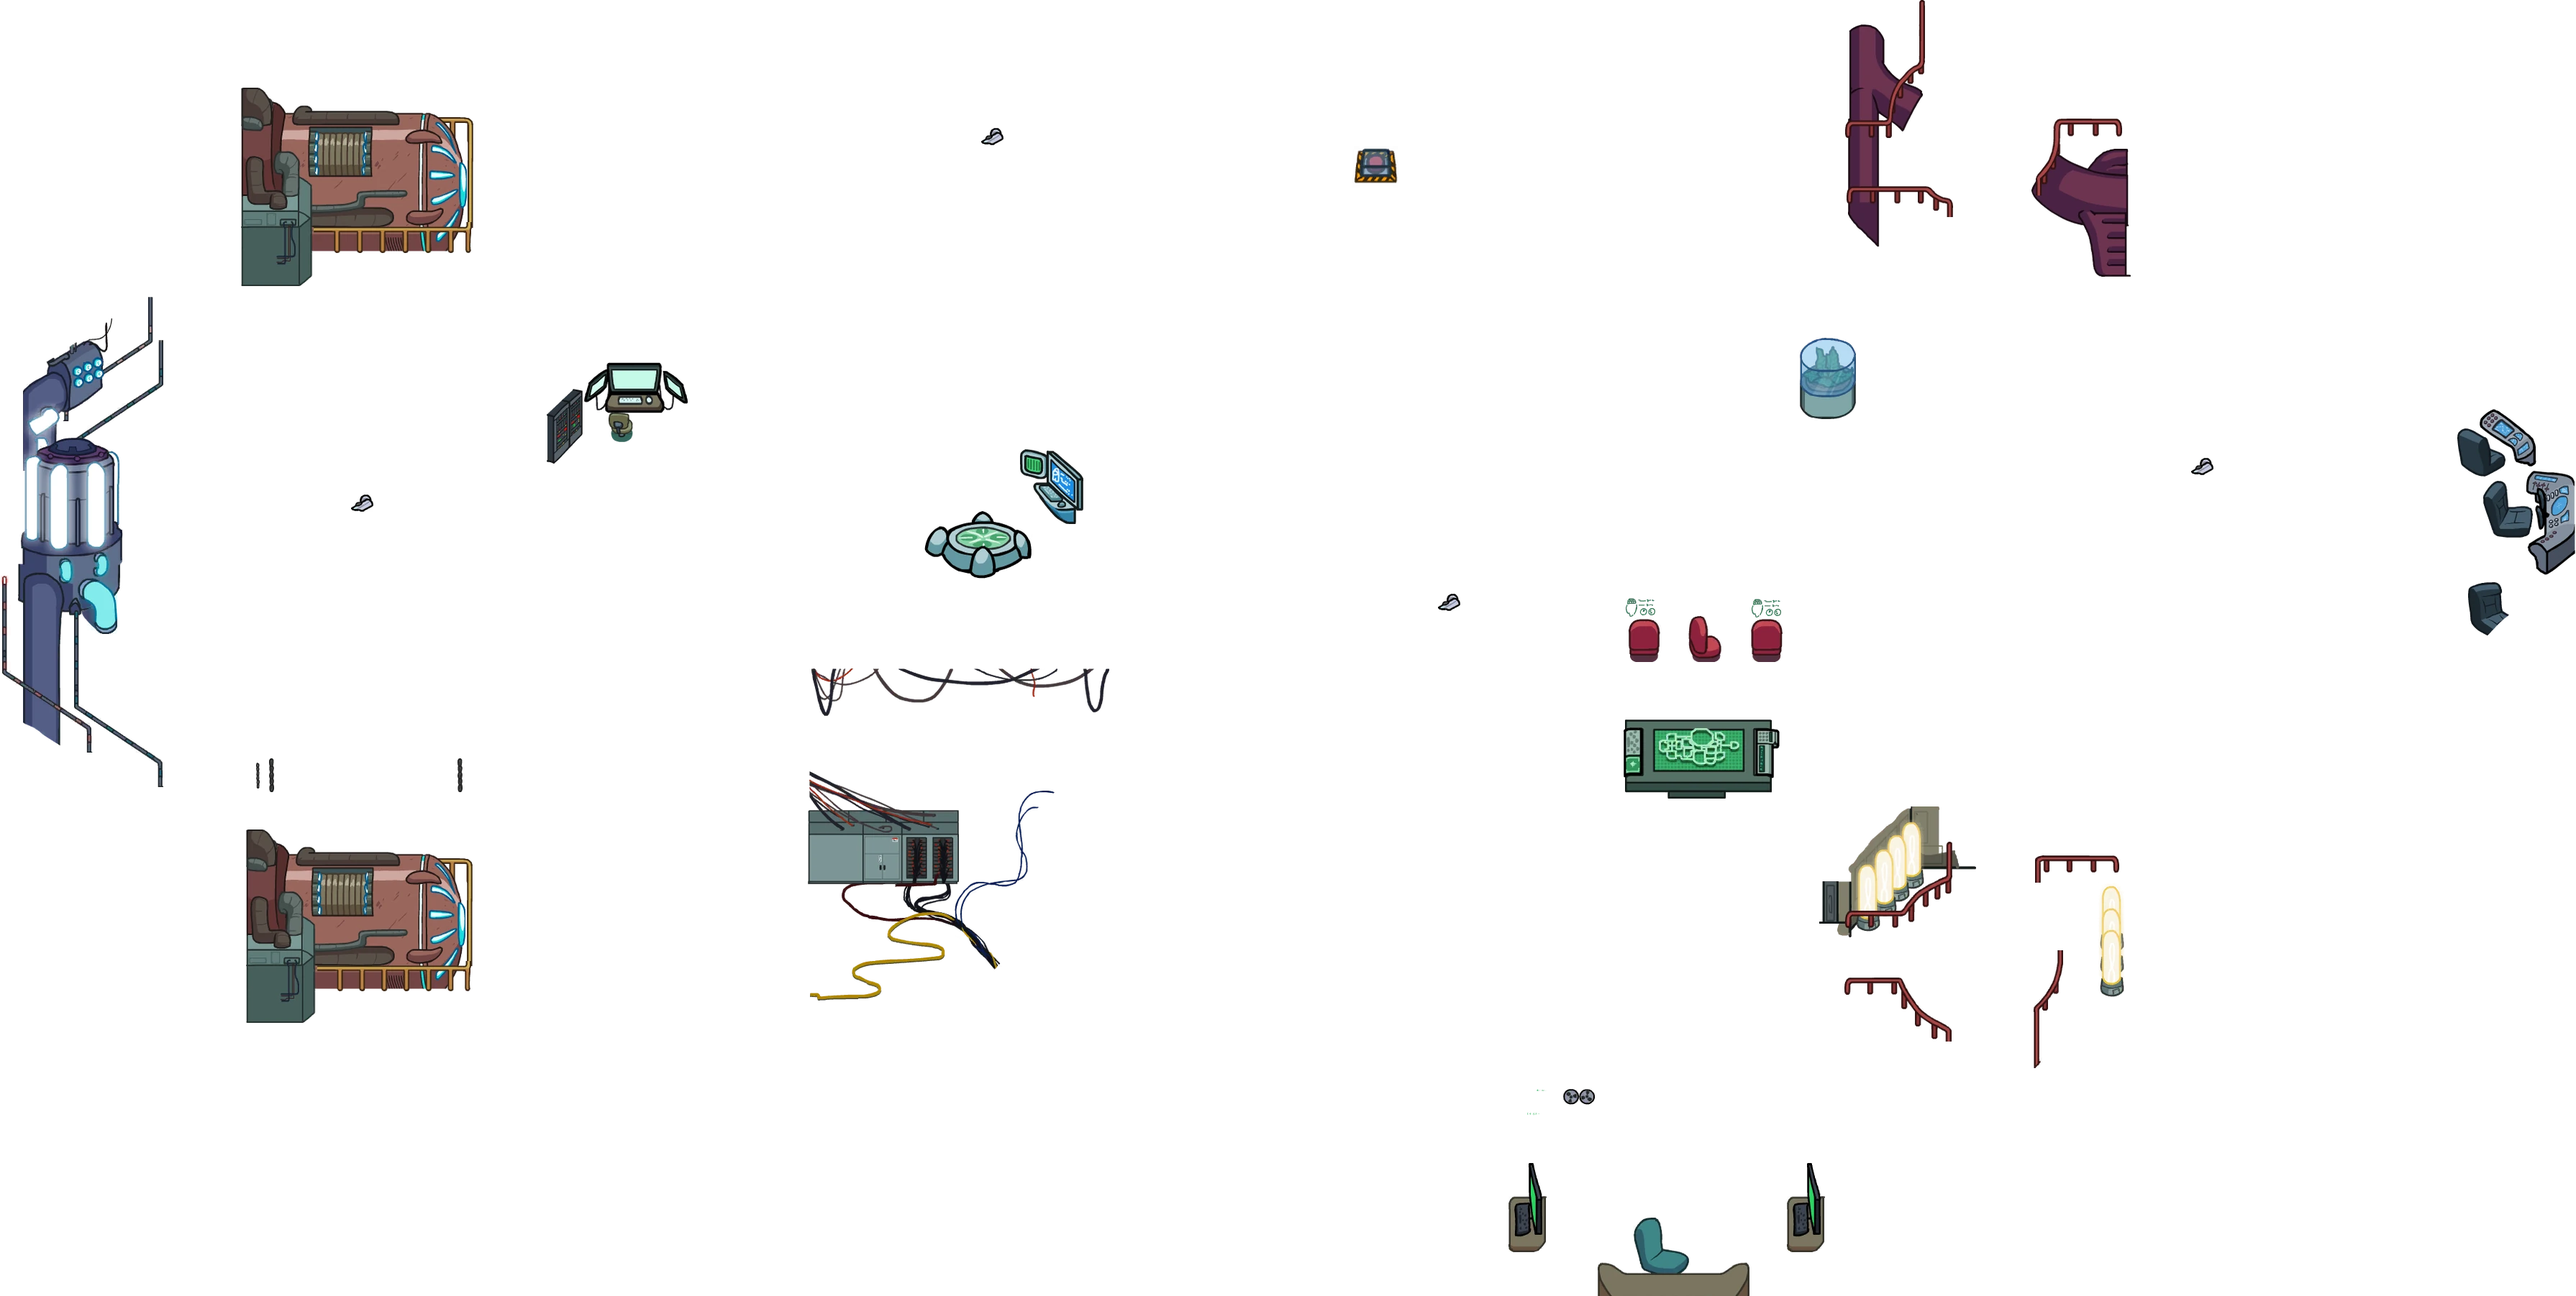
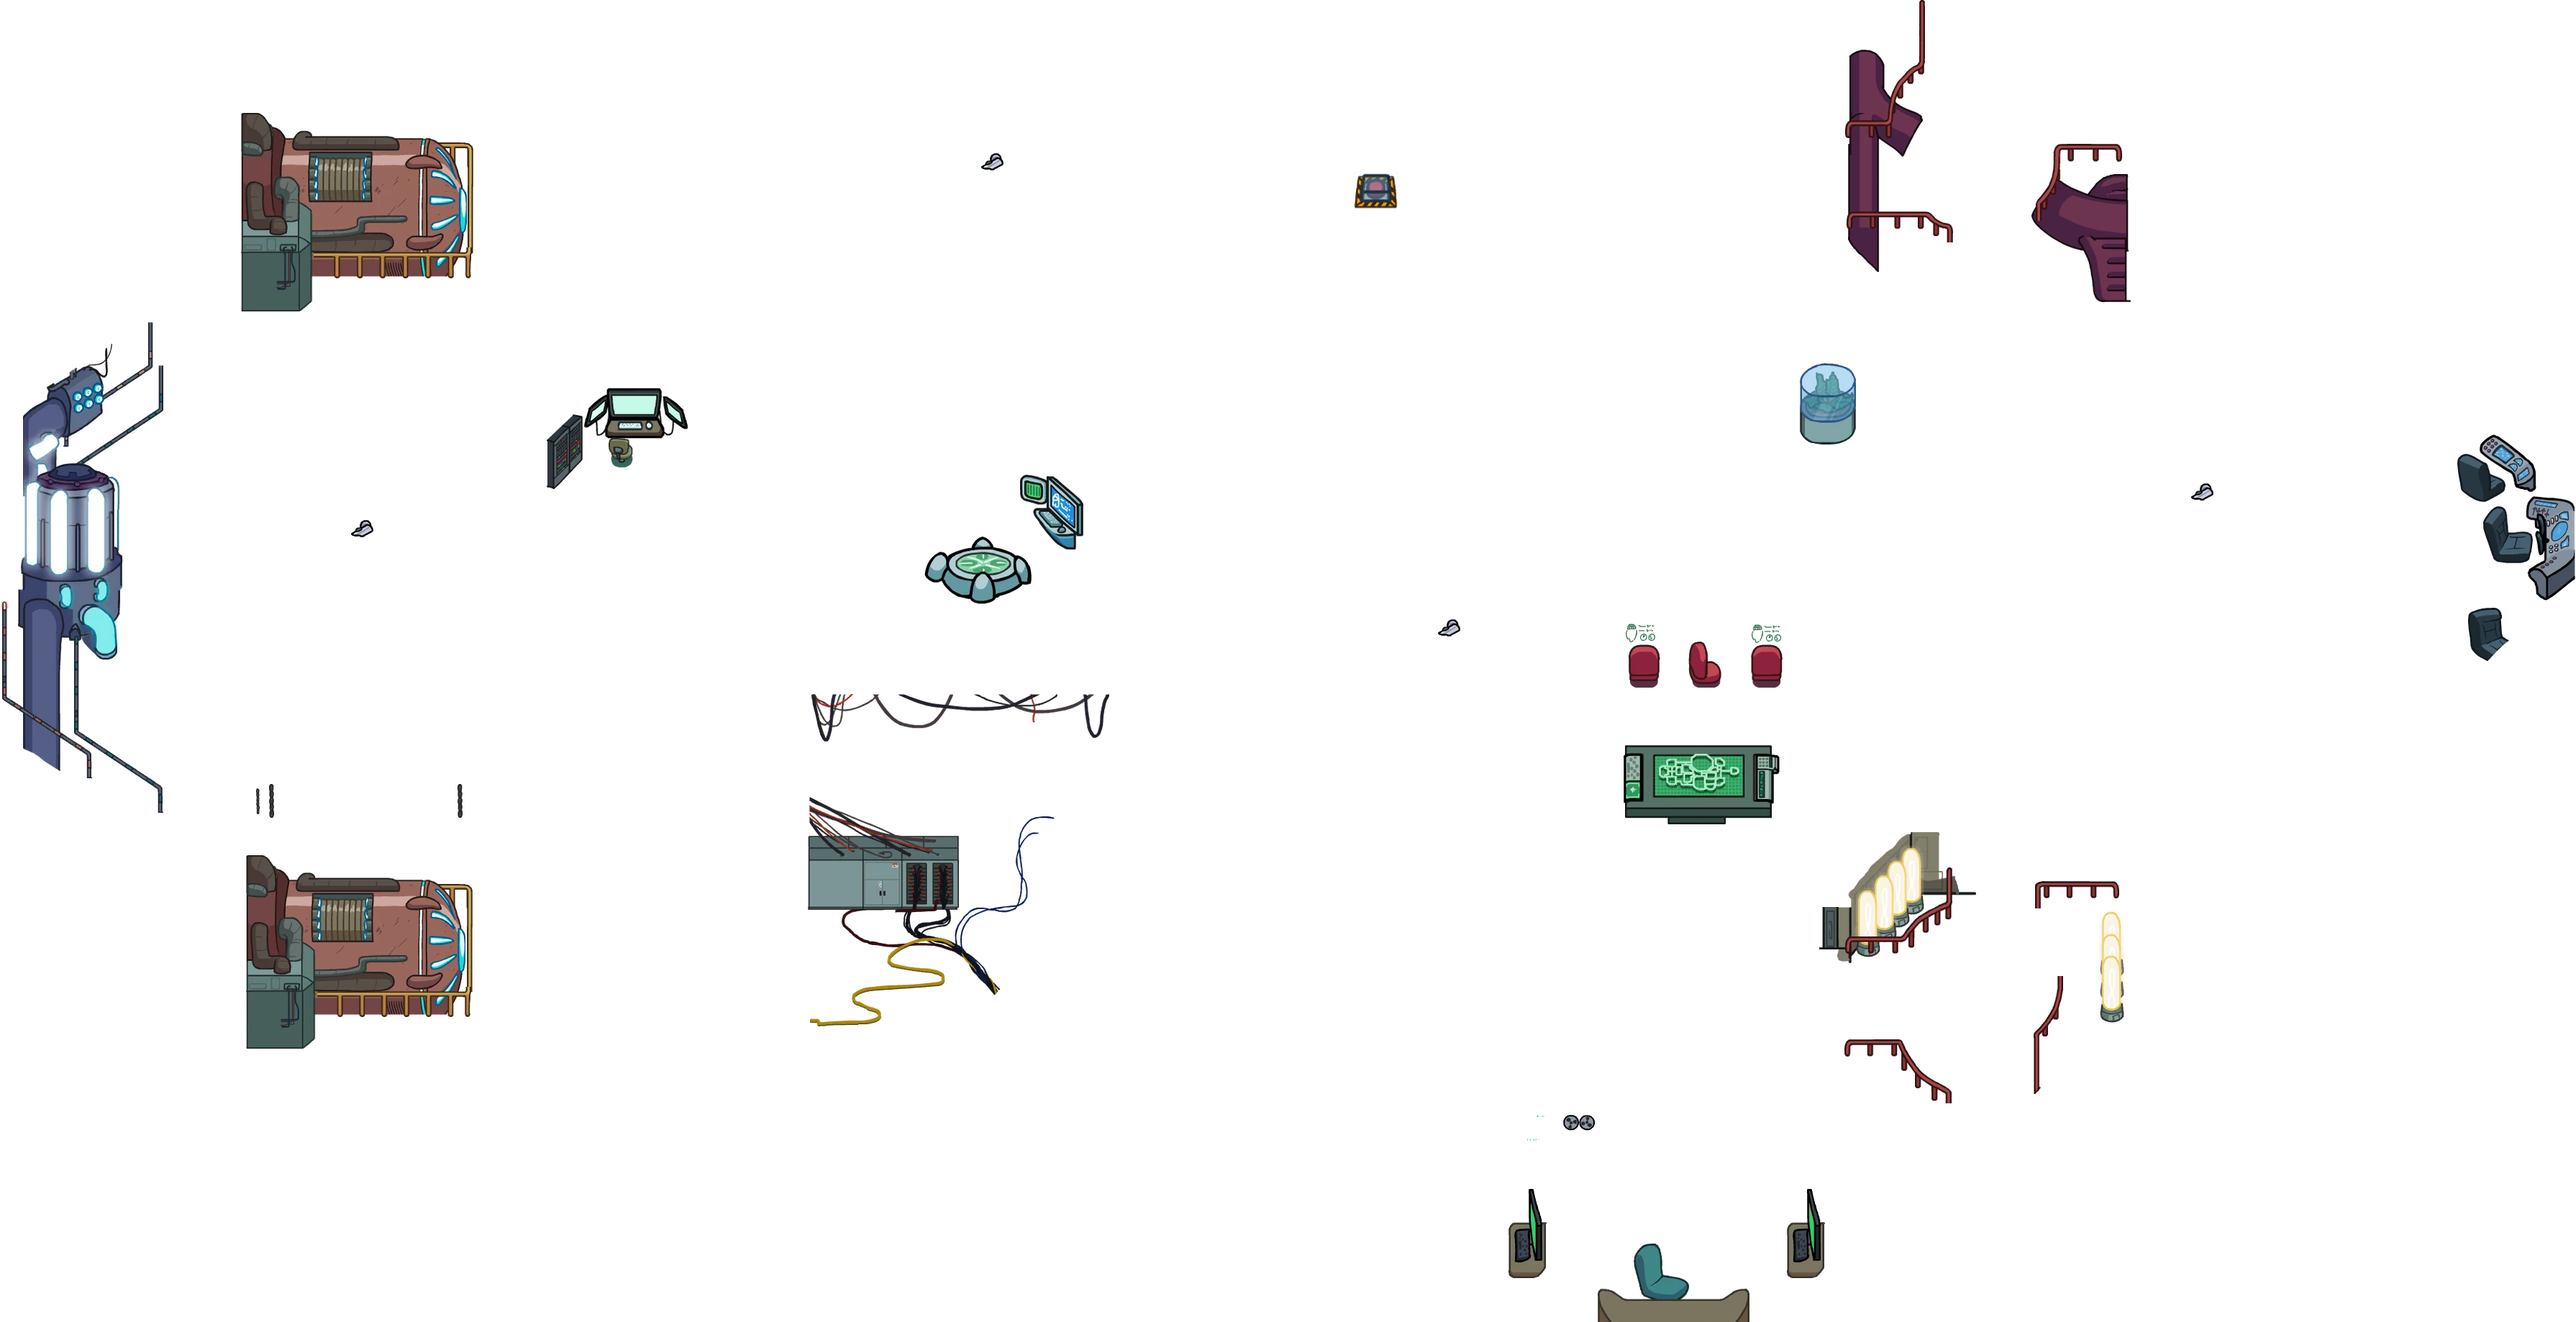
스켈드: 난간 너머 이동 막기, 충돌을 그림에 맞춤, 방어막 난간·무기고 포신 위치
- 무기고·방어막실 난간 너머 아래층 기계 구역을 막음 (원작처럼 난간을 넘어갈 수 없음) + 테스트
- 방별로 충돌 겹침 그림을 보며 다시 맞춤: 무기고 포탑, 전기실 위쪽 캐비닛, 창고 상자·드럼통,
  원자로 노심 윗부분, 산소실 대각선 배관, 상부 엔진 윗부분
- 방어막실 왼쪽 난간을 아래층 가장자리로(+50), 무기고 왼쪽 난간이 식당 쪽 입구를 가로지르지 않게(-35)
- 무기고 바깥 원작 포신(WeaponGun)을 방 벽에 붙여 보이게

Claude-Session: https://claude.ai/code/session_019x8pZeshMezN2CYKGSH5nq

diff --git a/test/map.test.js b/test/map.test.js
@@ -150,3 +150,13 @@ test('skeld: 식당 → 무기고, 식당 → 의무실 통로가 뚫려 있다'
   for (let x = 1480; x >= 1300; x -= 8) assert.ok(w.circleFree(x, 495, PLAYER_RADIUS), `식당→의무실 쪽 통로 막힘 (${x},495)`);
 });
 
+
+// 난간 너머 아래층 기계 구역은 걸을 수 없다 (원작) — 무기고 3곳, 방어막실 3곳
+test('skeld: 무기고·방어막실 난간 너머로 갈 수 없다', () => {
+  const map = loadMap('skeld');
+  const w = new CollisionWorld(map);
+  const decks = [[2610, 330], [2640, 600], [2900, 550], [2610, 1450], [2620, 1720], [2900, 1620]];
+  for (const [x, y] of decks) assert.ok(!w.circleFree(x, y, PLAYER_RADIUS), `(${x},${y}) 은 난간 너머인데 걸을 수 있다`);
+  // 방 가운데 바닥은 걸을 수 있다
+  for (const [x, y] of [[2760, 330], [2760, 560], [2760, 1600]]) assert.ok(w.circleFree(x, y, PLAYER_RADIUS), `(${x},${y}) 바닥이 막혔다`);
+});
